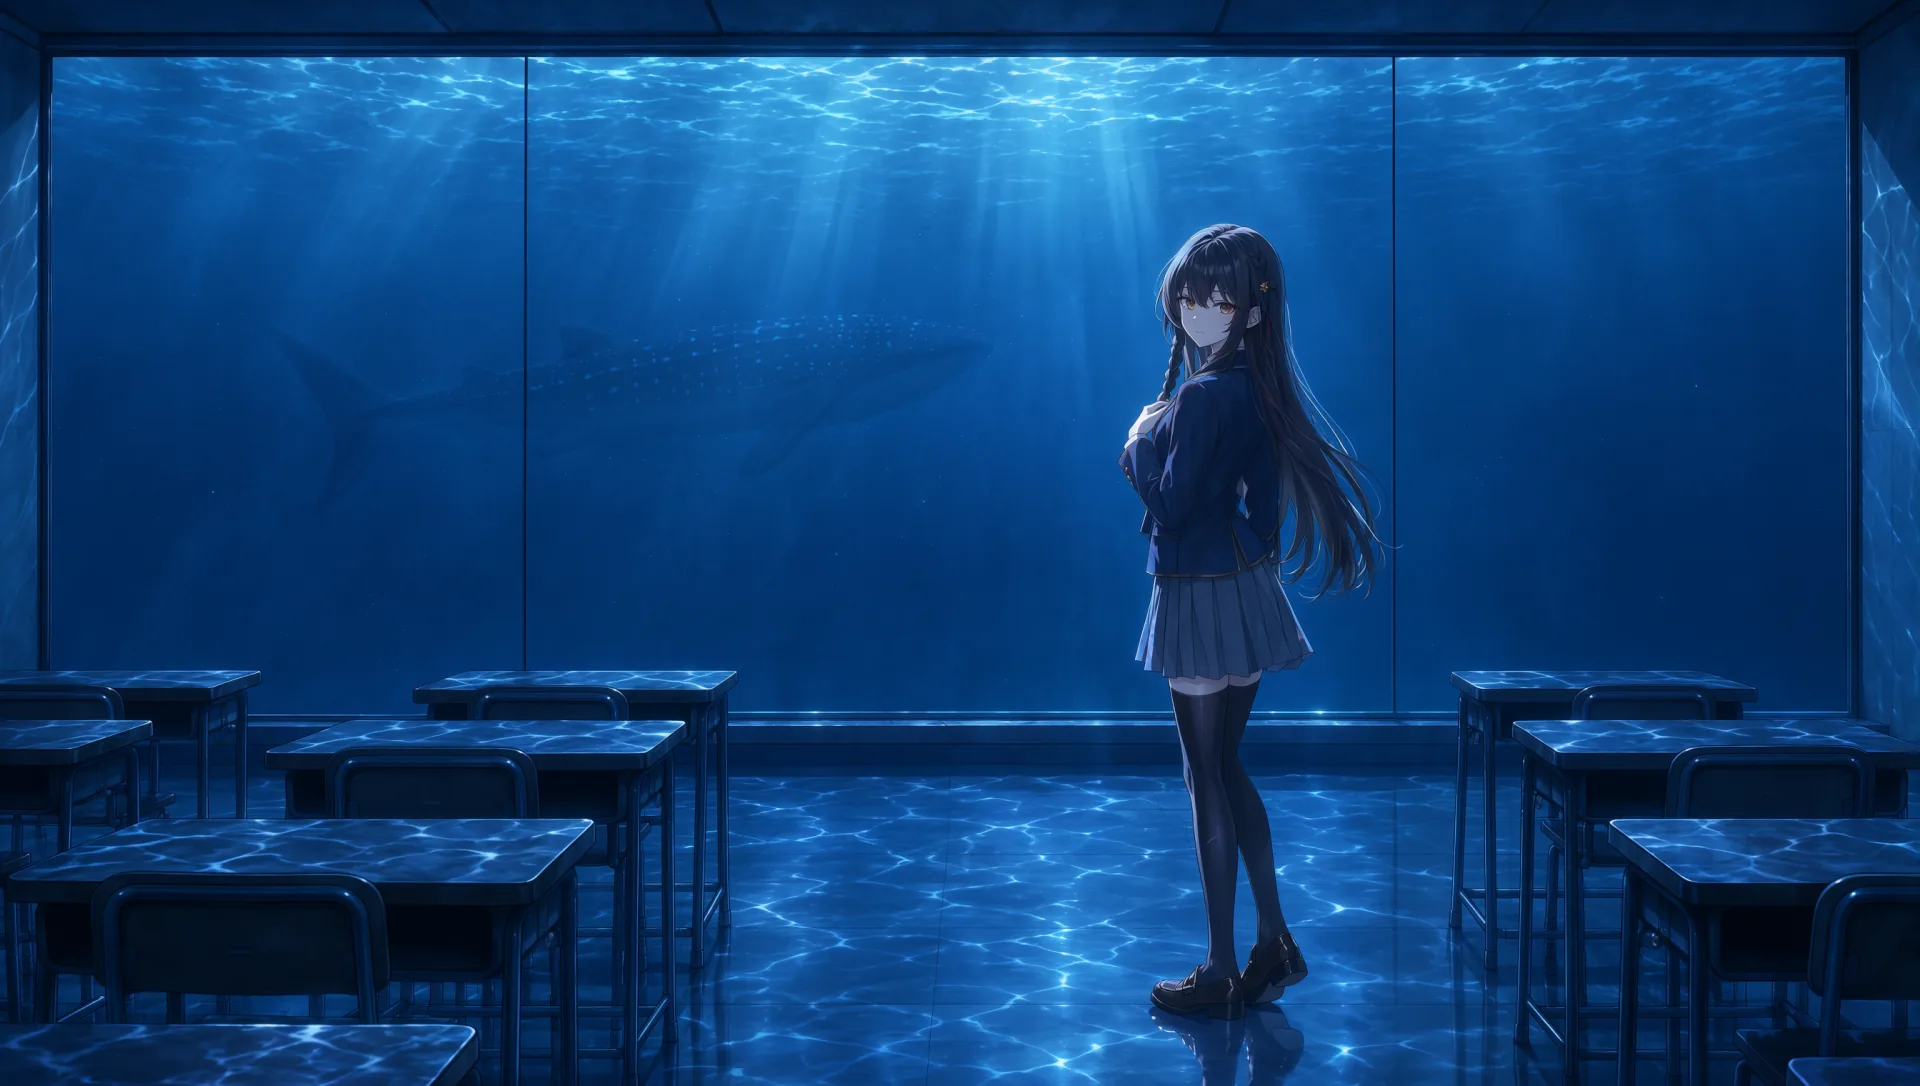
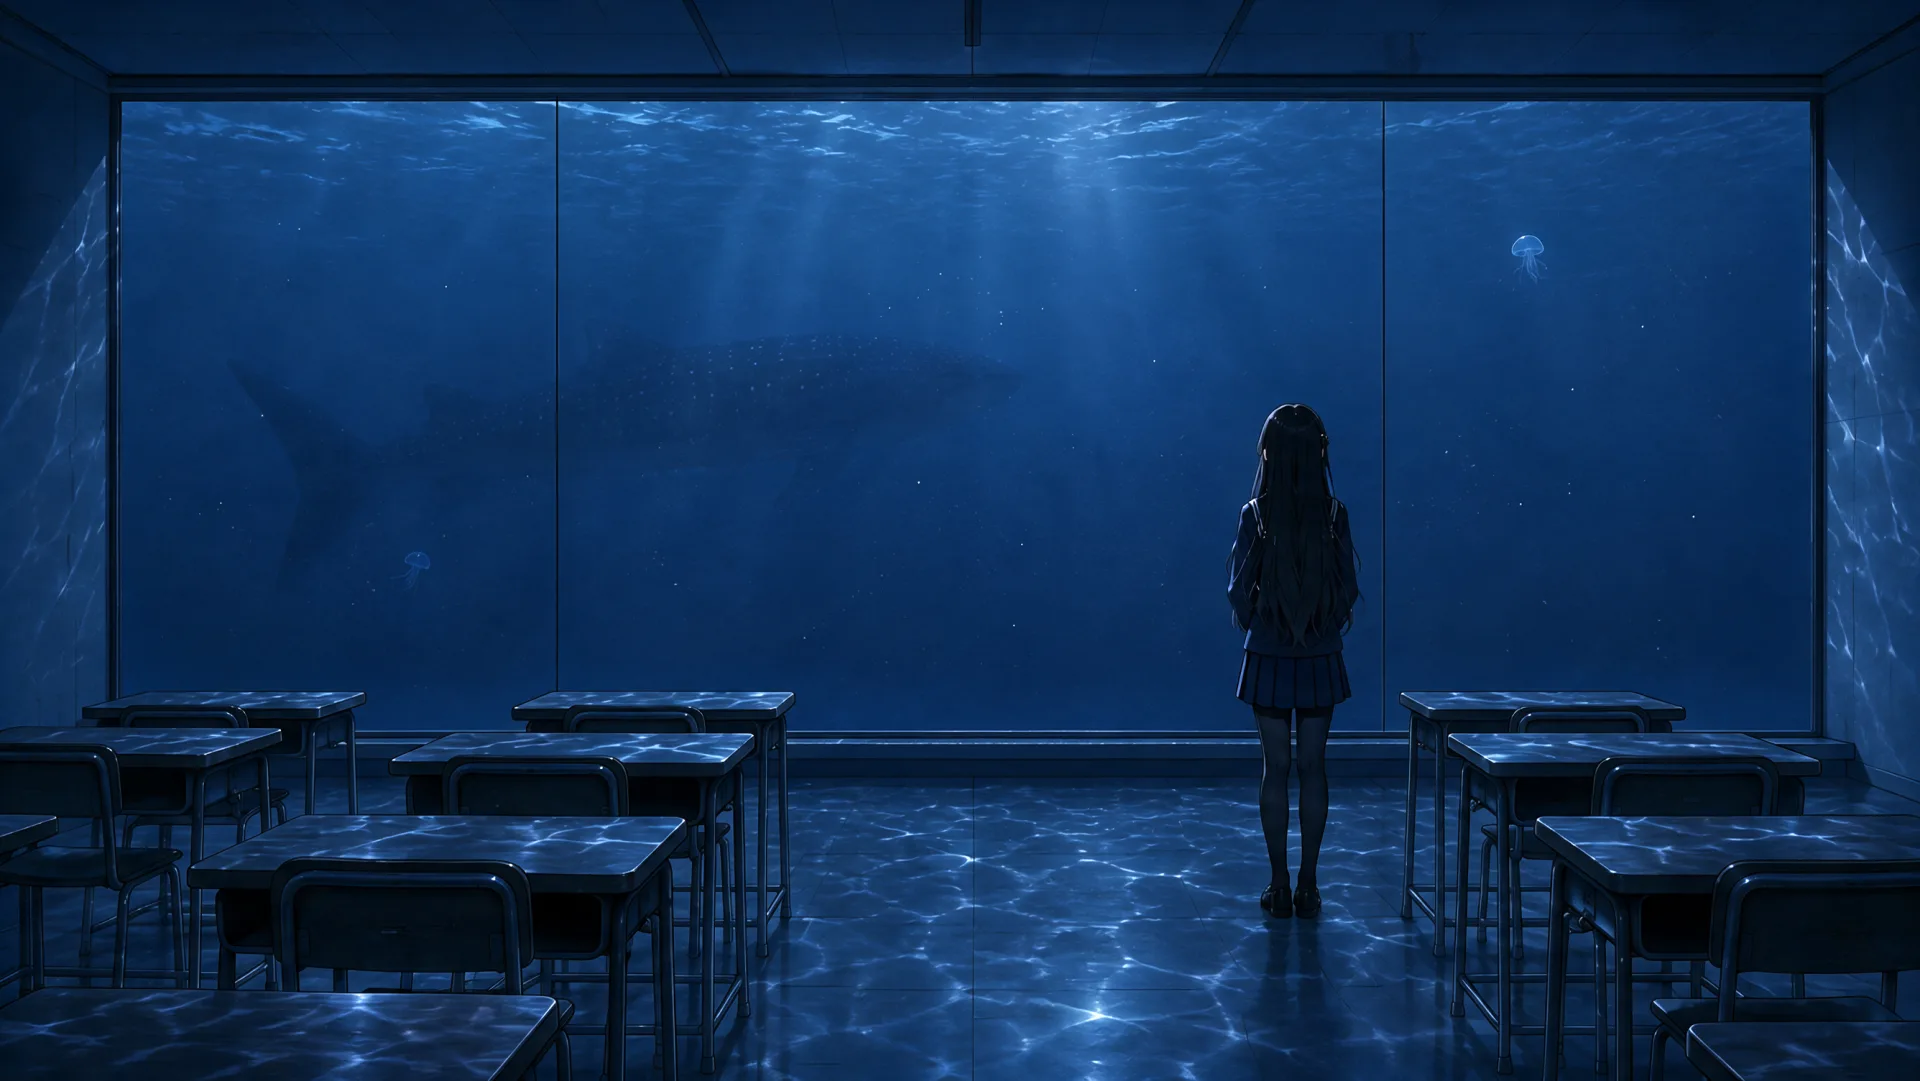
Seonjam: put the Yeji whale-shark plate on the first page, restore panel 2
82c688f swapped the wrong plate. The Seonjam landing page shows
seonjam-03 (art: [2, 0], also the info plate), so the approved
yeji_whaleshark_ed_DAT015_final.png goes there (cwebp -q 82 -m 6
-resize 1920 0). seonjam-01 is restored byte-for-byte from 27d9f98.
The new plate's phone crop moves 24% -> 66% so Yeji stays in frame,
and its alt text describes the new scene.

diff --git a/main.js b/main.js
@@ -147,9 +147,9 @@
       panels: [
         { kind: 'art', src: 'assets/seonjam-01.webp', altKo: '선잠 DOZE 일러스트: 먼 벽이 깊고 푸른 수족관으로 열린 교실에 혼자 선 소녀', alt: '선잠 DOZE illustration: a girl standing alone in a classroom whose far wall opens onto a deep blue aquarium', pos: '50% 50%', posM: '74% 50%' },
         { kind: 'raw', src: 'assets/seonjam-02.webp', altKo: '선잠 DOZE 게임 타이틀 화면: 어두운 교실에서 교복 입은 소녀 다섯이 타이틀과 시작 메뉴 옆에 있는 모습', alt: '선잠 DOZE in-game title screen: five girls in school uniform in a dark classroom beside the title and the start menu', pos: '50% 50%', posM: '12% 50%', lift: 0 },
-        { kind: 'art', src: 'assets/seonjam-03.webp', altKo: '선잠 DOZE 일러스트: 오후 햇살 속 구교사 옆 나무 울타리 곁에 선 예지', alt: '선잠 DOZE illustration: Yeji by a wooden fence beside the old school building in afternoon light', pos: '50% 50%', posM: '24% 50%' }
+        { kind: 'art', src: 'assets/seonjam-03.webp', altKo: '선잠 DOZE 일러스트: 고래상어가 지나가는 수족관 벽 앞 교실에서 돌아보는 예지', alt: '선잠 DOZE illustration: Yeji looking back in a classroom whose far wall is an aquarium with a passing whale shark', pos: '50% 50%', posM: '66% 50%' }
       ],
-      info: { kind: 'art', src: 'assets/seonjam-03.webp', pos: '50% 50%', posM: '24% 50%', side: 'end' }
+      info: { kind: 'art', src: 'assets/seonjam-03.webp', pos: '50% 50%', posM: '66% 50%', side: 'end' }
     },
     {
       id: 'donguri-ryokan',
